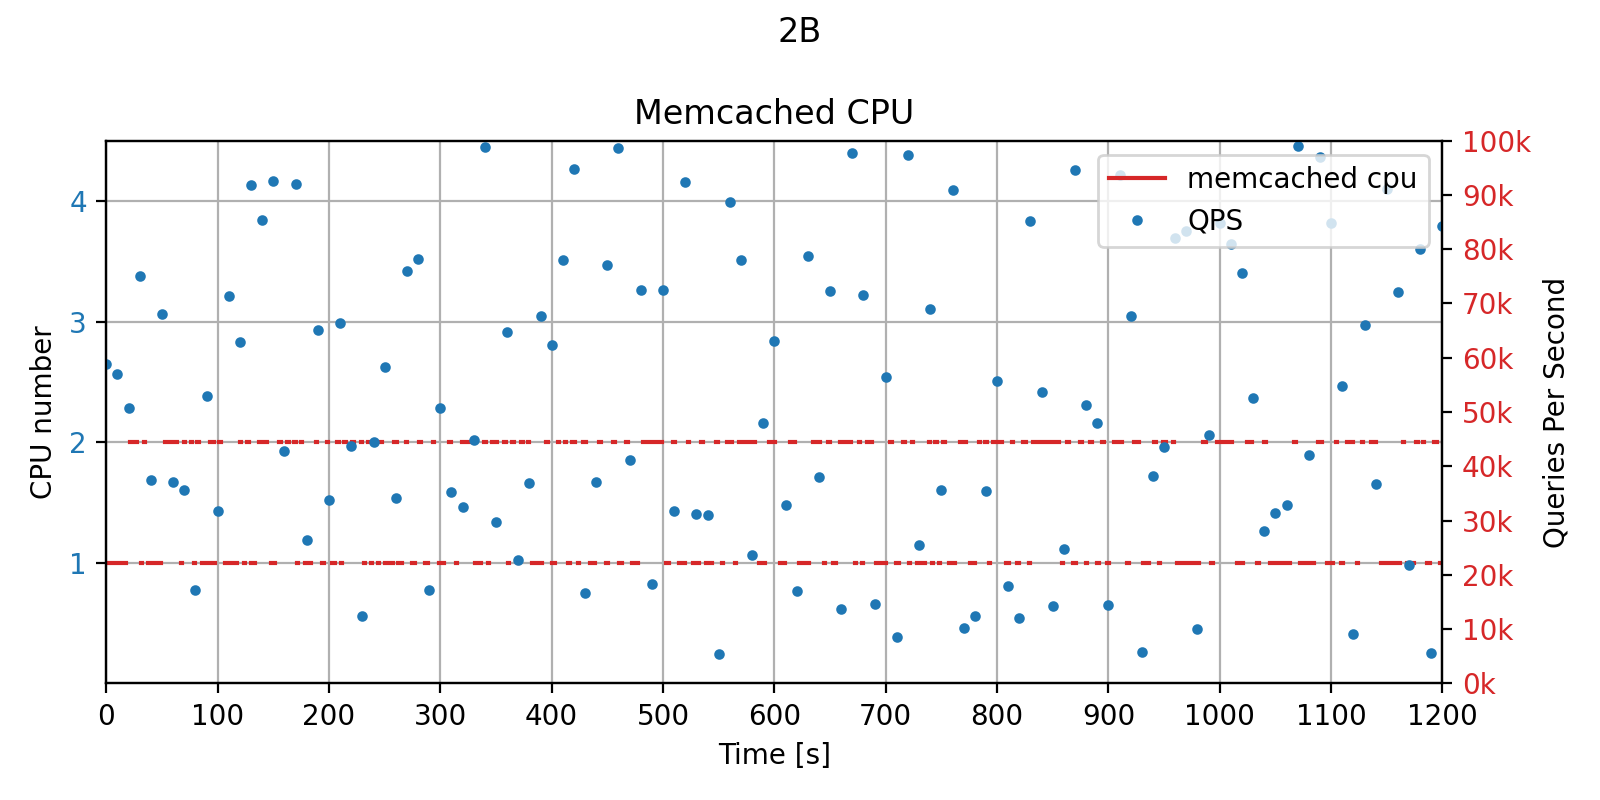
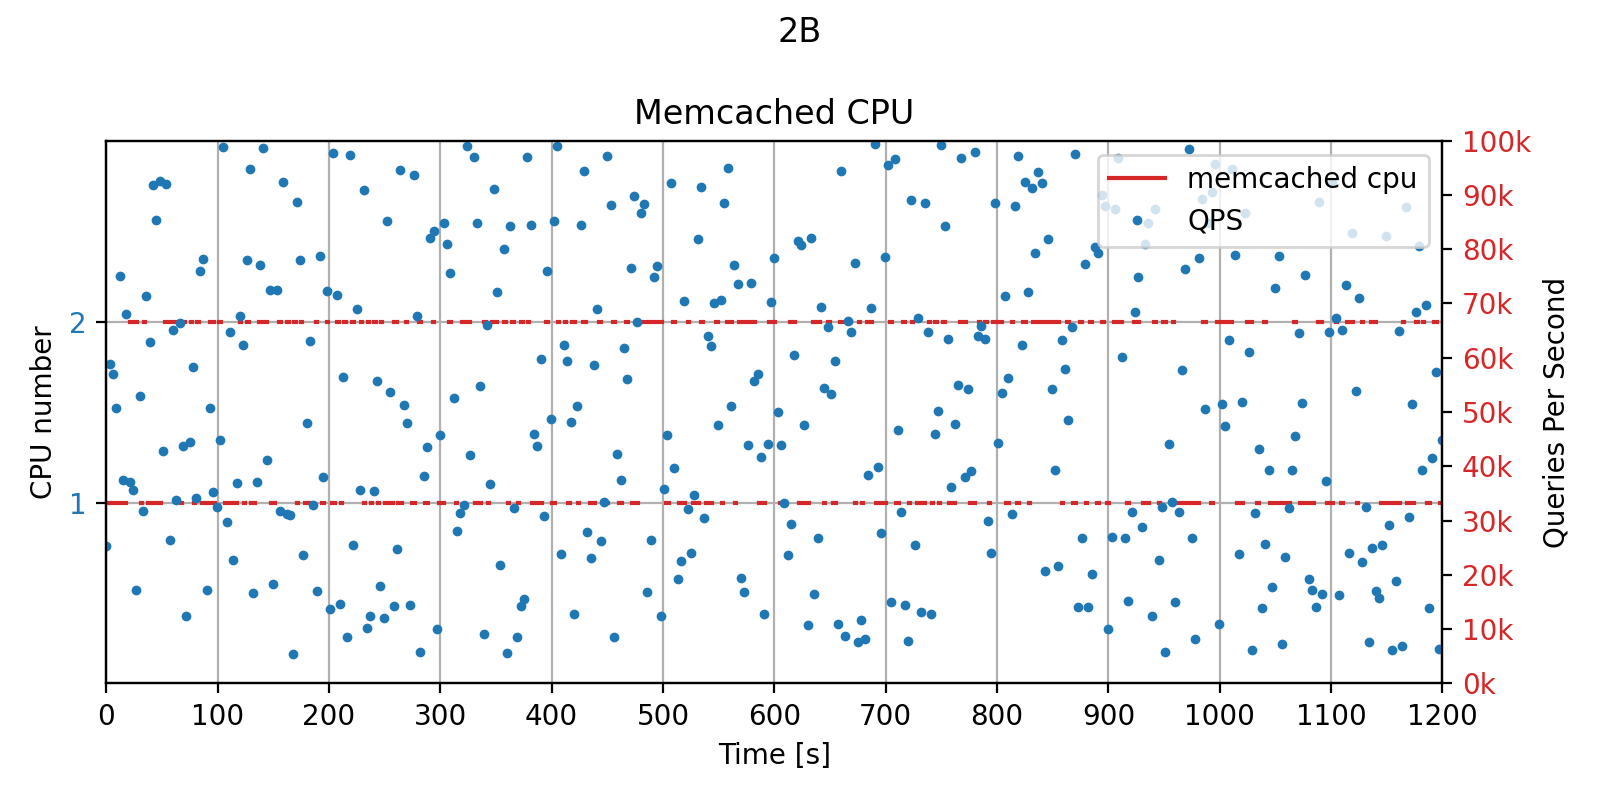
update

diff --git a/plot4.py b/plot4.py
@@ -27,7 +27,7 @@ DATADIR = args.datadir
 
 
 ###### 1.read in data from files ######
- 
+
 # read QPS and latency data
 def read_mc_data(memcached_file):
     L = []
@@ -35,11 +35,13 @@ def read_mc_data(memcached_file):
         line = file.readline()
         while line:
             #print(line)
-            line = line.split()
-            L.append(line)
+            if line[0:4] == "read":
+                line = line.split()
+                L.append(line)
             line = file.readline()
     #L[8:188] only keep the data part
-    data = pd.DataFrame(L[8:188], index=None, columns=None, dtype=None, copy=None)
+    data = pd.DataFrame(L, index=None, columns=None, dtype=None, copy=None)
+    print(len(data))
     return data
 
 def extract_p95_latency(data):
@@ -81,7 +83,7 @@ def read_jobs_time(jobs_file, shift):
     end_flag = ['exit', 'pause']
     stack = [] # help match each job's begin time and end/pause time
     with open(jobs_file) as file:
-        line = file.readline() 
+        line = file.readline()
         while line:
             #print(shift)
             job, timestamp, operation = line.split(',')[0], float(line.split(',')[1]) - shift, line.split(',')[2]
@@ -94,7 +96,7 @@ def read_jobs_time(jobs_file, shift):
                         jobs_time[job].append([item[1], timestamp])
                         stack.remove(item)
                         break
-                        
+
             line = file.readline()
         times = {}
         for job in jobs_time:
@@ -168,8 +170,8 @@ def plot_mc(axB_mc):
     axB_mc.tick_params(axis='y', labelcolor='tab:blue')
     # axA_95p.set_ylim([0, 3.2])
     # axA_95p.set_yticks(np.arange(0, 3.2, 0.4))
-    axB_mc.set_ylim([0, 4.5])
-    axB_mc.set_yticks(np.arange(1, 4.5, 1))
+    axB_mc.set_ylim([0, 3])
+    axB_mc.set_yticks(np.arange(1, 3, 1))
 
 
 
@@ -204,12 +206,13 @@ def plot_cpu_num(mem_cpu):
 
 
 if __name__ == "__main__":
-    times = {"dedup":[], 
-            "fft":[], 
-            "ferret":[], 
-            "freqmine":[], 
-            "canneal":[], 
+    times = {"dedup":[],
+            "fft":[],
+            "ferret":[],
+            "freqmine":[],
+            "canneal":[],
             "blackscholes": []}
+    interval = 10
     for k in range(1,4):
         memcached_file = os.path.join(DATADIR, str(k), 'memcached.csv')
         latency_file = os.path.join(DATADIR, str(k), 'latency.txt')
@@ -229,7 +232,7 @@ if __name__ == "__main__":
             times[job].append(one_times[job])
         mem_cpu = read_cpu_change(memcached_file, controller_s)
 
-        fig = plt.figure(figsize=(8, 6))
+        fig = plt.figure(figsize=(12, 9))
         fig.suptitle(f"{k}A")
 
         axA_95p, ax_events = fig.subplots(2, 1, gridspec_kw={'height_ratios': [3, 1]})
@@ -249,25 +252,23 @@ if __name__ == "__main__":
 
         axB_mc = fig2.subplots()
         axB_QPS = axB_mc.twinx()
-        plot_mc(axB_mc)
         plot_qps(axB_QPS)
+        plot_mc(axB_mc)
+
         artistB_mc, = axB_mc.plot(mem_cpu[0][0],mem_cpu[1][0], '-', color='tab:red', linewidth=1.5)
         for i in range(1,len(mem_cpu[0])):
             axB_mc.plot(mem_cpu[0][i],mem_cpu[1][i], '-', color='tab:red', linewidth=1.5)
         # artistB_mc, = axB_mc.plot(mem_cpu[0], mem_cpu[1], '-', color='tab:red')
-        artistB_QPS, = axB_QPS.plot(x_label, QPS, 'o', markersize=2.8, color='tab:blue')
-        plt.legend([artistB_mc, artistB_QPS], ['memcached cpu', 'QPS'], loc='upper right')
+        artistB_QPS, = axB_QPS.plot(x_label, QPS, 'o', markersize=2.5, color='tab:blue')
+        plt.legend([artistB_QPS,artistB_mc], ['QPS','memcached cpu'], loc='upper right')
         plt.subplots_adjust(hspace=0.2, bottom=0.2)
         fig2.tight_layout()
 
         plt.plot()
-        plt.show()
+        # plt.show()
 
     for job in times:
         avg = sum(times[job])/3
         std = np.std(times[job])
         times[job] = {"mean time":avg, "std" : std}
     print(times)
-
-
-
